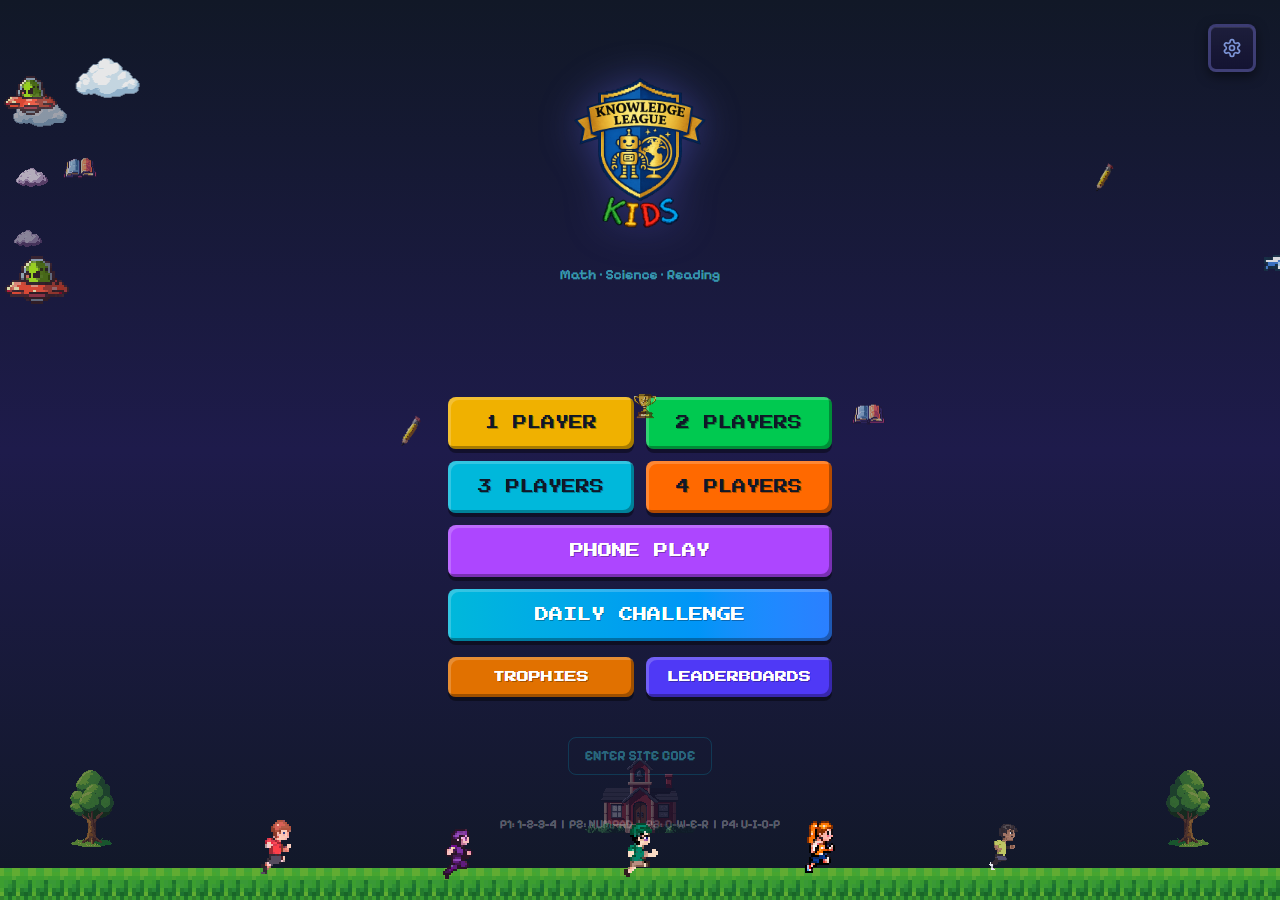
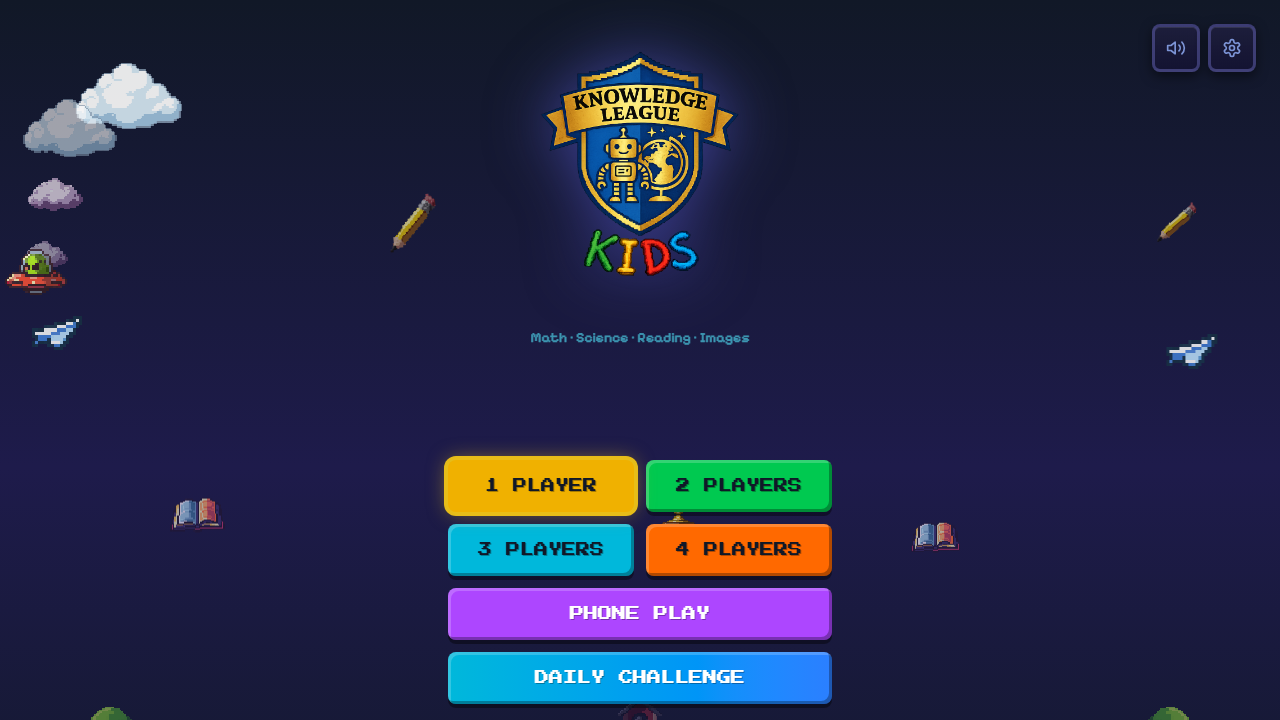
docs: fresh screenshots for README — menu, CPU select, game events

diff --git a/README.md b/README.md
@@ -2,7 +2,11 @@
 
 A multiplayer educational game where kids answer math, science, reading, and spelling questions to compete in retro pixel art game events. Built with React, TypeScript, and WebRTC for real-time multiplayer on any device.
 
-![Menu](public/screenshots/menu.png)
+![Main Menu](public/screenshots/menu.png)
+
+## Pick Your Opponent
+
+![CPU Select](public/screenshots/cpu-select.png)
 
 ## Game Events
 
